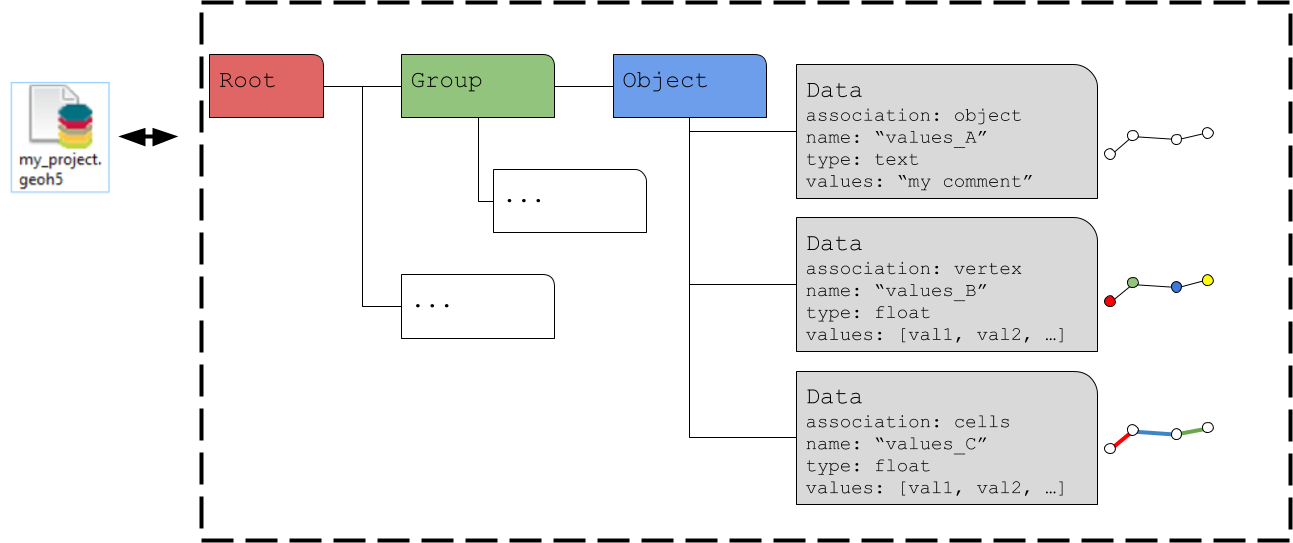
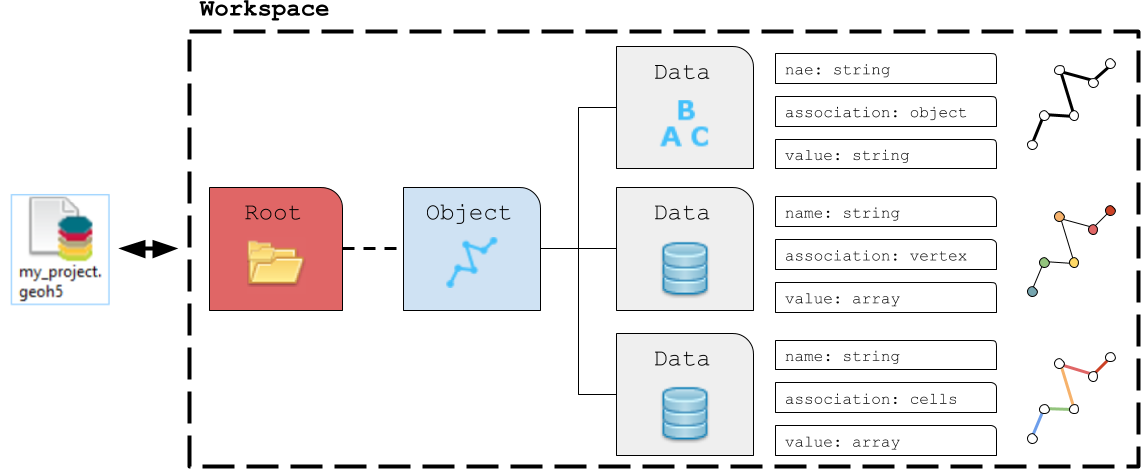
Add/update figures in user_guide

diff --git a/docs/content/user_guide/index.rst b/docs/content/user_guide/index.rst
@@ -4,6 +4,10 @@ User Guide
 This section provides information on how to use the **geoh5py** package, from
 the creation of a Workspace_ to the creation and manipulation of Entities_
 
+.. figure:: ./images/workspace_tree.png
+	    :align: center
+	    :width: 600
+
 .. toctree::
    :maxdepth: 2
 
